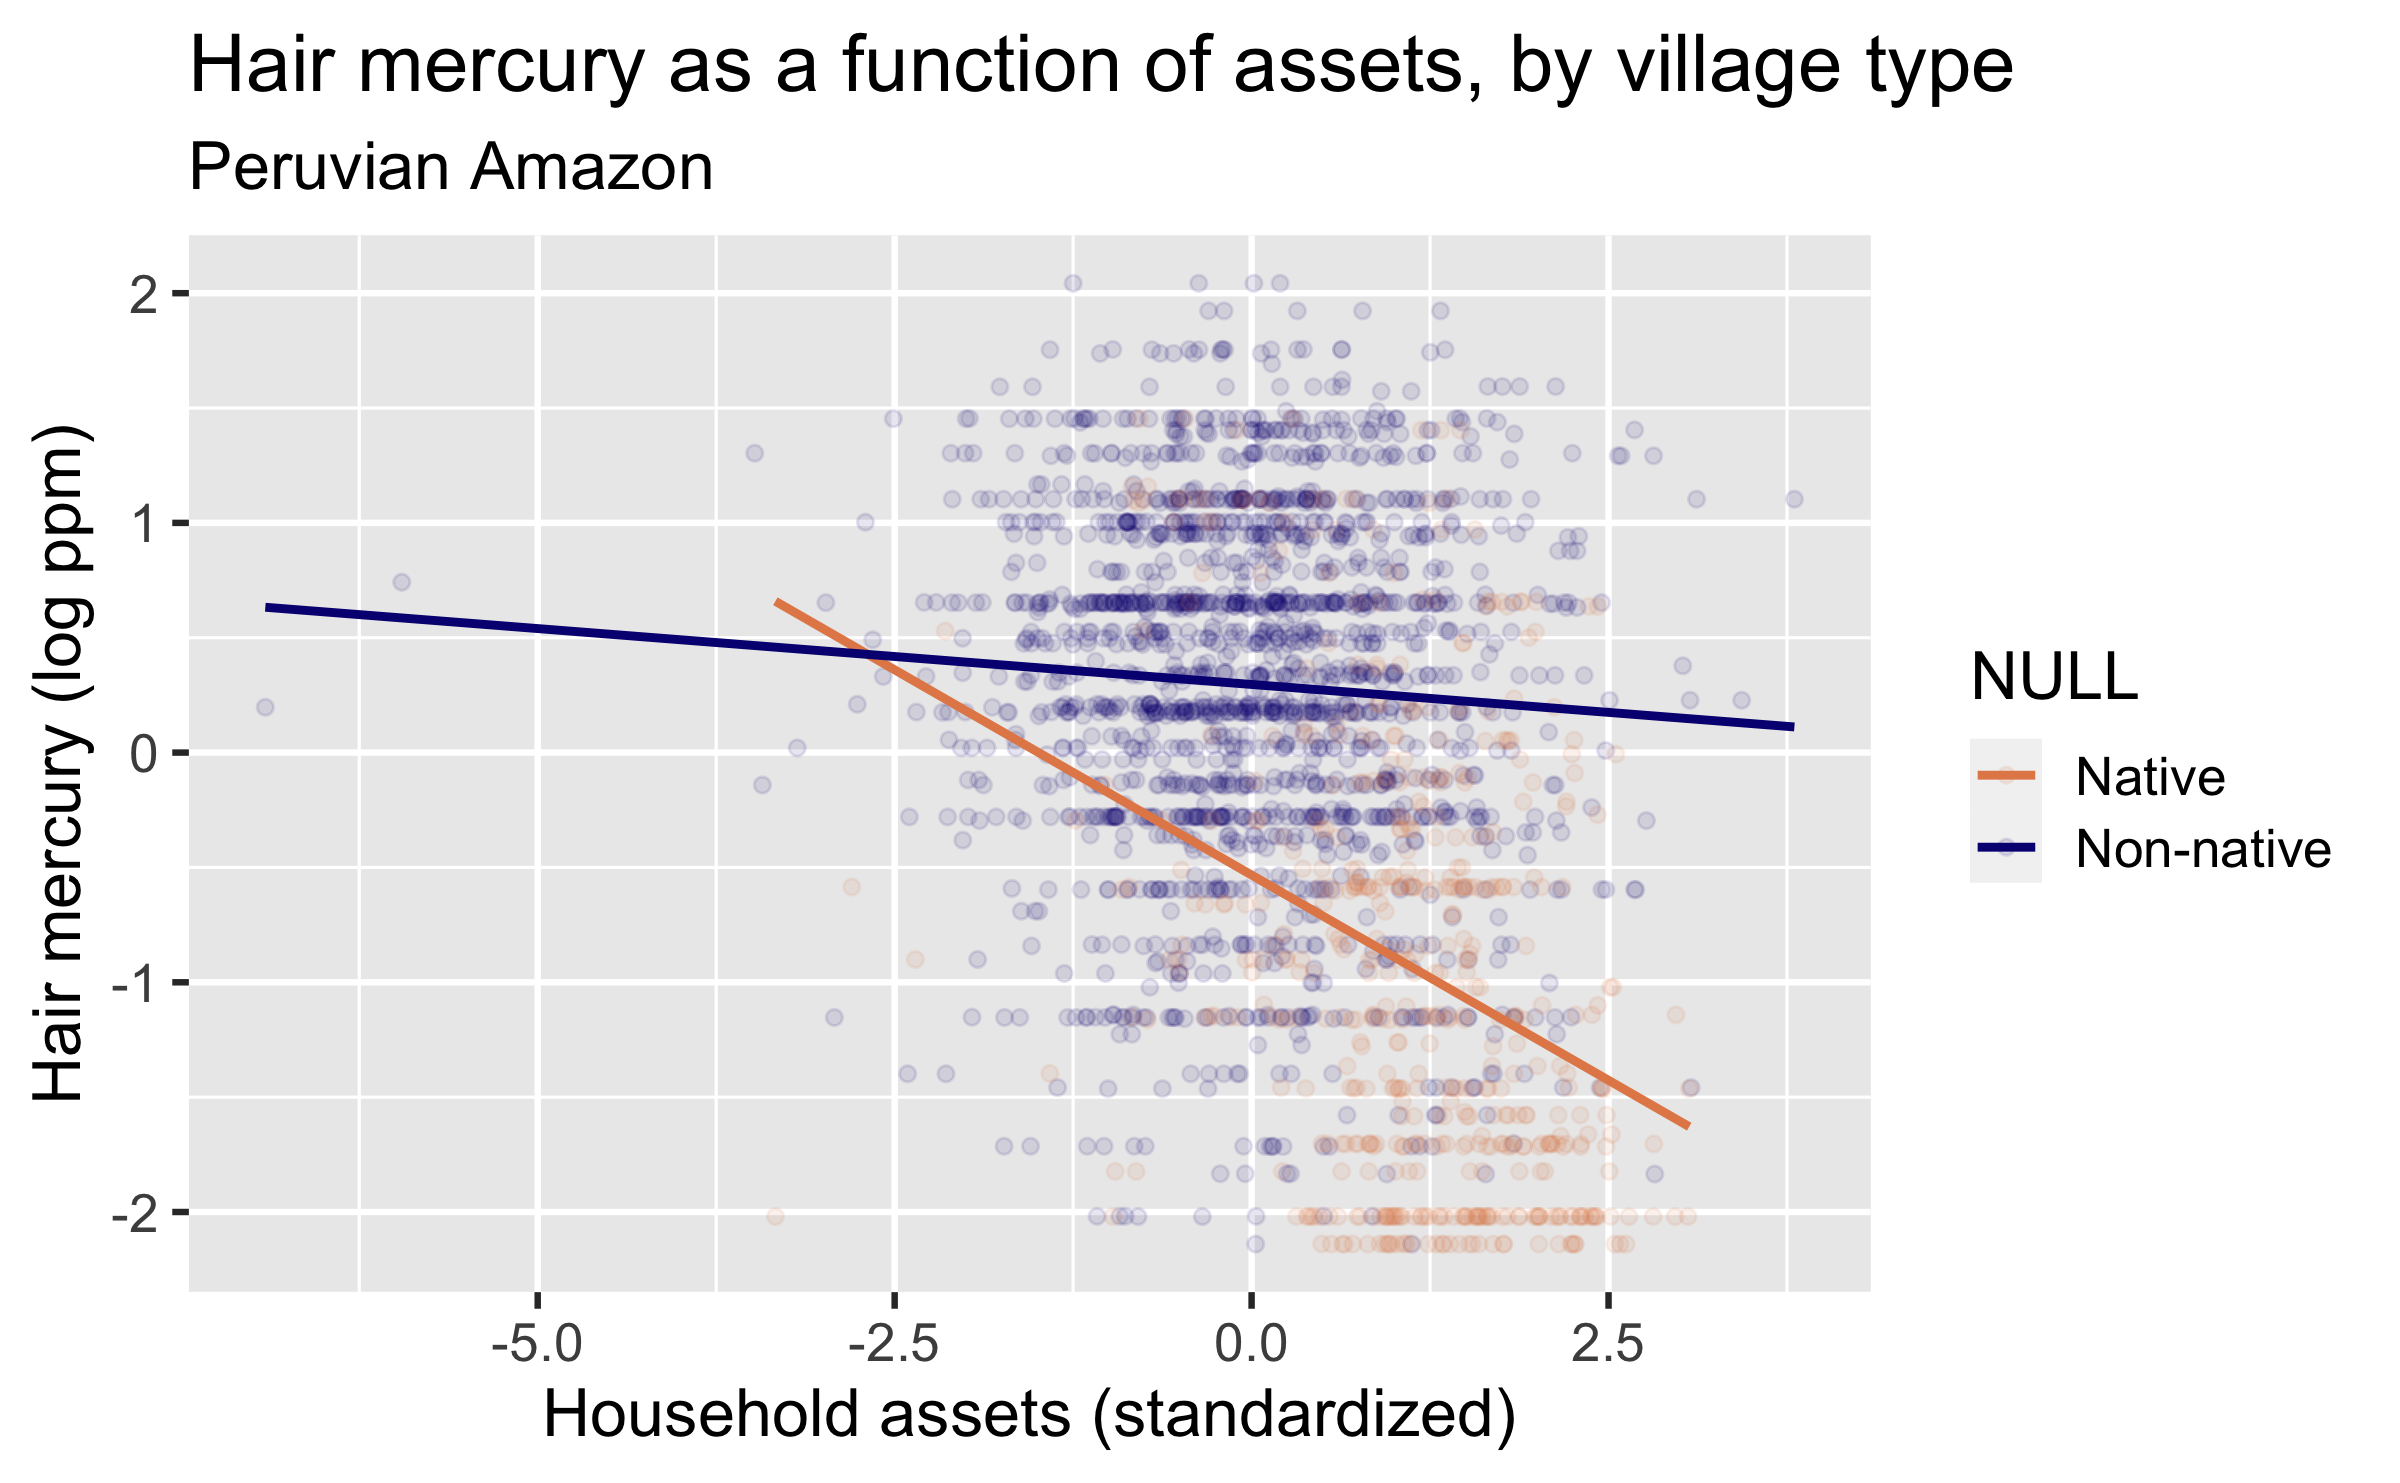
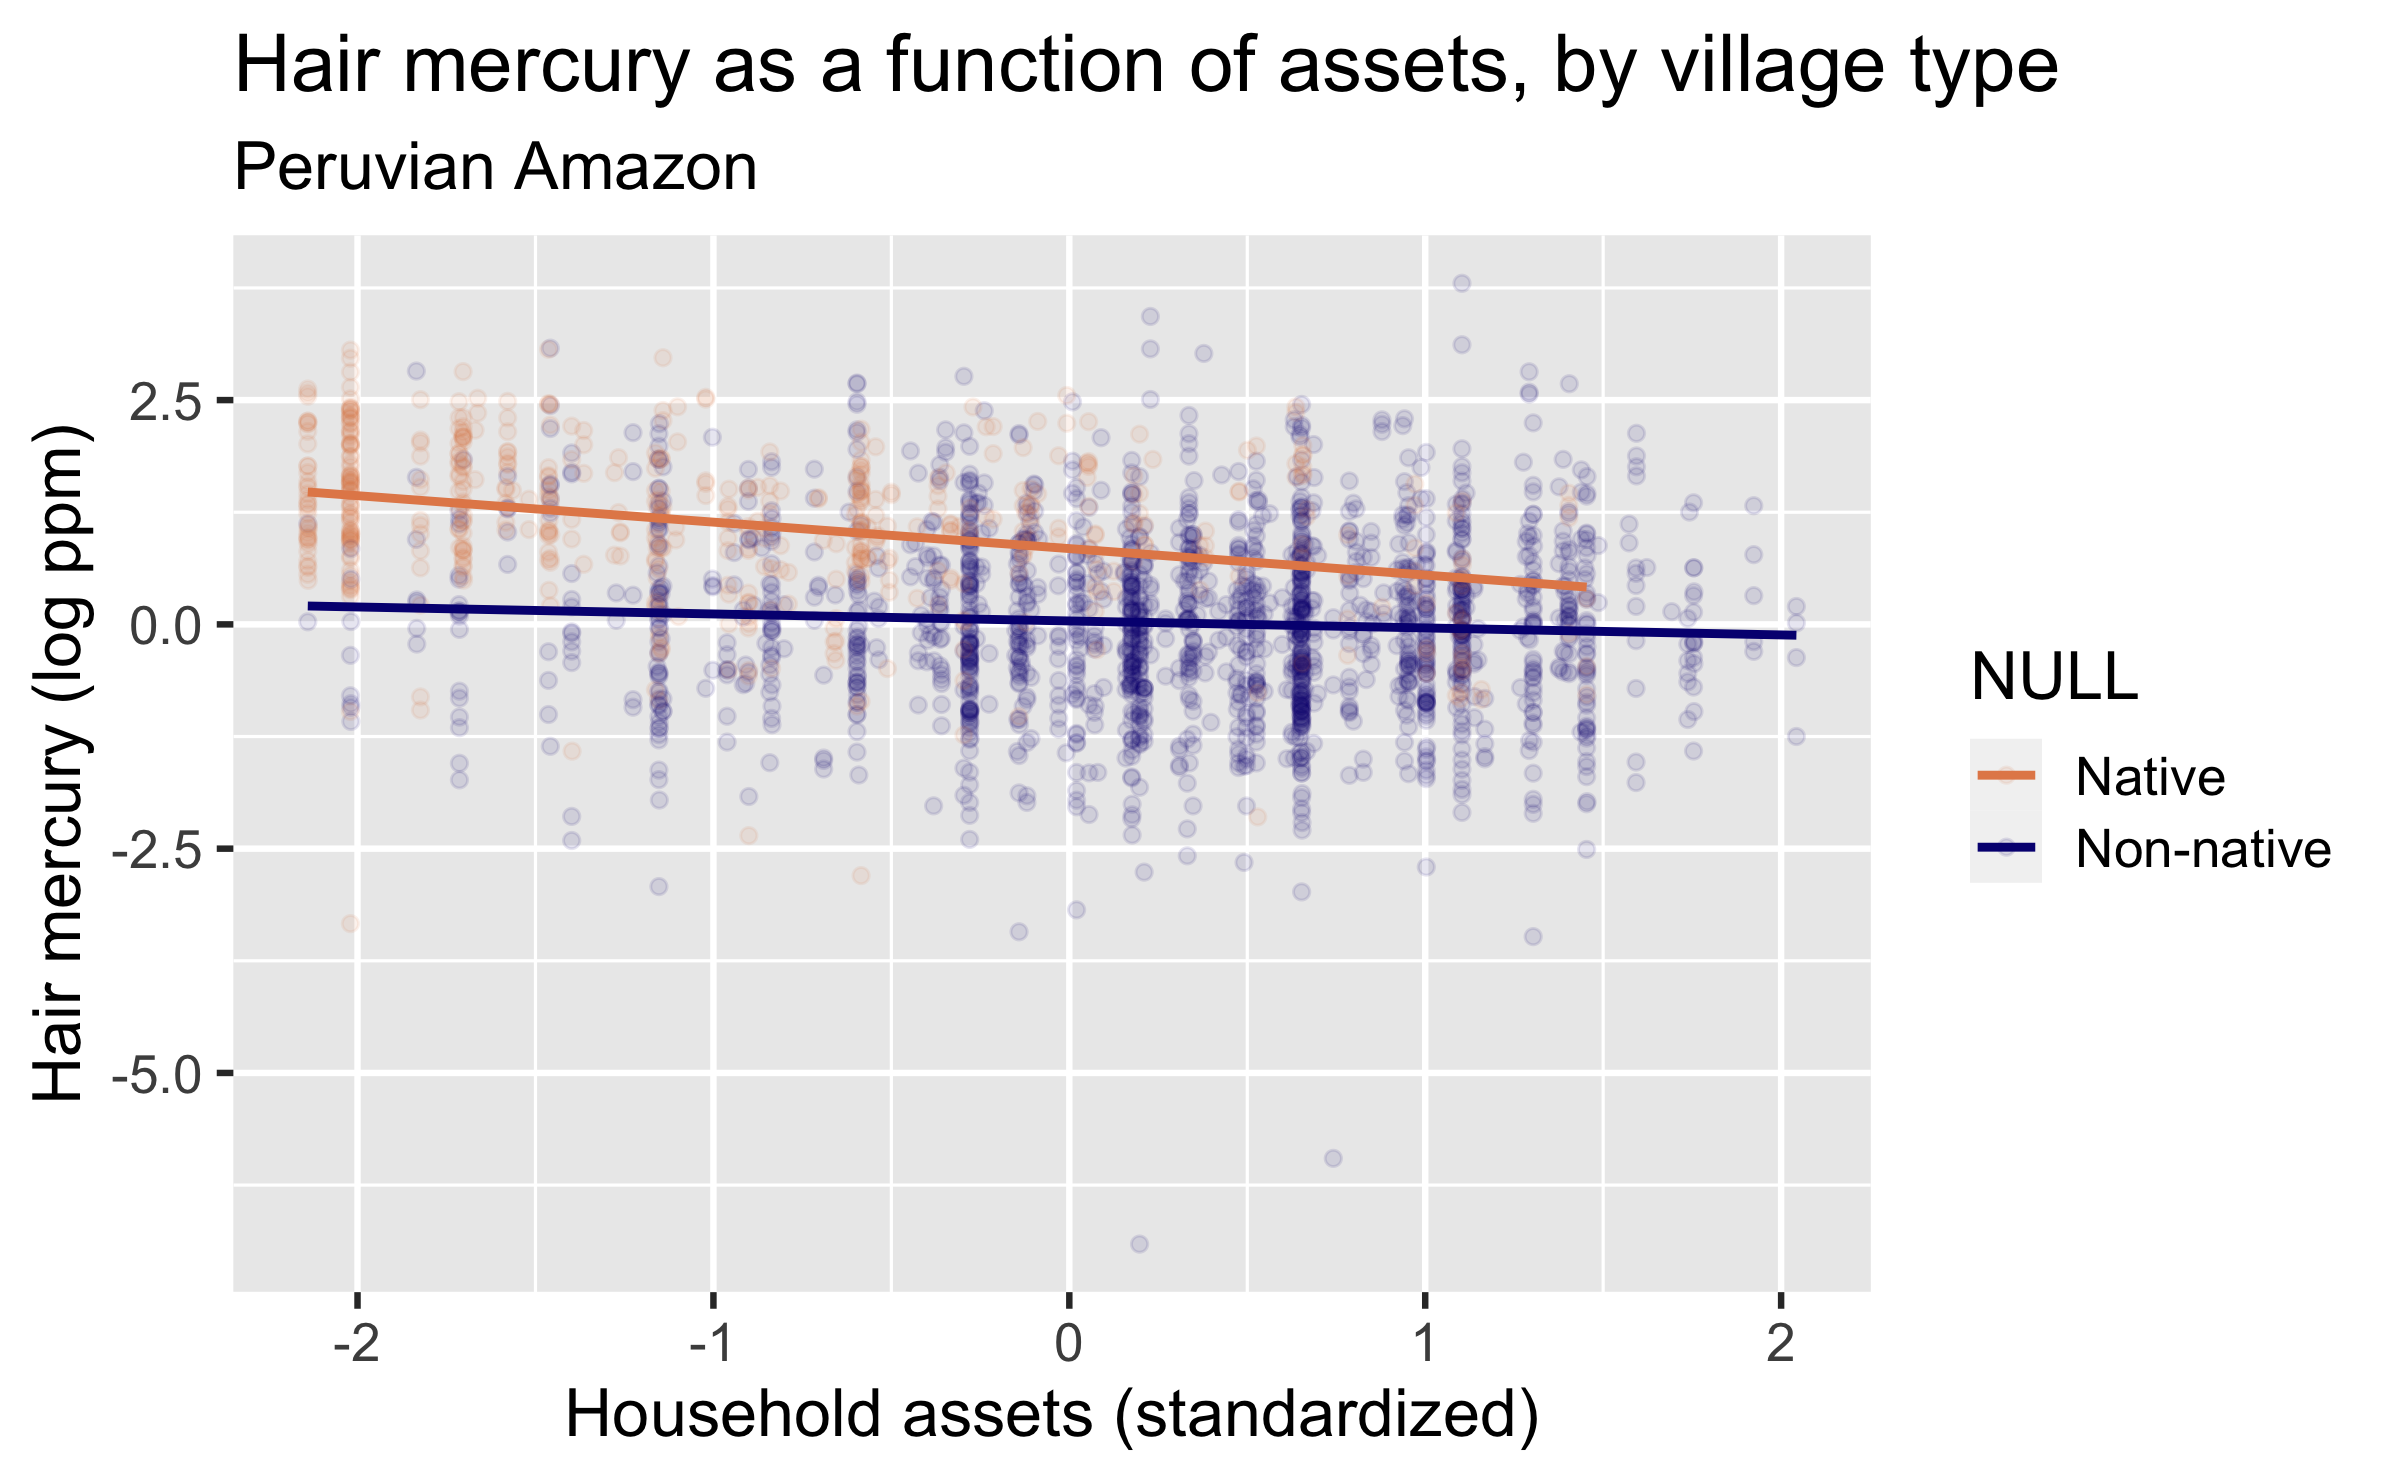
fix x and y axis in two plots lecture 1 week 8

diff --git a/docs/slides/week-08/w8-l01-intro-model.html b/docs/slides/week-08/w8-l01-intro-model.html
@@ -117,7 +117,7 @@ ggplot(data = mercury, aes(x = lhairHg)) +
   labs(x = "Mercury (log ppm)", y = NULL)
 ```
 
-&lt;img src="w8-l01-intro-model_files/figure-html/xform-1.png" width="70%" style="display: block; margin: auto;" /&gt;
+&lt;img src="w8-l01-intro-model_files/figure-html/xform-1.png" width="50%" style="display: block; margin: auto;" /&gt;
 
 Because the models we will discuss to start prefer data that are approximately normally distributed, we will work with the log of hair mercury concentrations.
 
@@ -325,7 +325,7 @@ How, if at all, does the relationship between hair mercury and household assets 
 .panel[.panel-name[Code]
 
 ```r
-ggplot(data = mercury, aes(x = lhairHg, y = assets_sc, color = native_cat)) +
+ggplot(data = mercury, aes(x = assets_sc, y = lhairHg, color = native_cat)) +
   geom_point(alpha = 0.1) +
   geom_smooth(method = "lm", se = FALSE) +
   labs(
@@ -353,7 +353,7 @@ The prior lines were nice in that they did not extrapolate beyond the range of o
 .panel[.panel-name[Code]
 
 ```r
-ggplot(data = mercury, aes(x = lhairHg, y = assets_sc, color = native_cat)) +
+ggplot(data = mercury, aes(x = assets_sc, y = lhairHg, color = native_cat)) +
   geom_point(alpha = 0.1) +
   geom_smooth(method = "lm",
               se = FALSE,

diff --git a/static/slides/week-08/w8-l01-intro-model.html b/static/slides/week-08/w8-l01-intro-model.html
@@ -117,7 +117,7 @@ ggplot(data = mercury, aes(x = lhairHg)) +
   labs(x = "Mercury (log ppm)", y = NULL)
 ```
 
-&lt;img src="w8-l01-intro-model_files/figure-html/xform-1.png" width="70%" style="display: block; margin: auto;" /&gt;
+&lt;img src="w8-l01-intro-model_files/figure-html/xform-1.png" width="50%" style="display: block; margin: auto;" /&gt;
 
 Because the models we will discuss to start prefer data that are approximately normally distributed, we will work with the log of hair mercury concentrations.
 
@@ -325,7 +325,7 @@ How, if at all, does the relationship between hair mercury and household assets 
 .panel[.panel-name[Code]
 
 ```r
-ggplot(data = mercury, aes(x = lhairHg, y = assets_sc, color = native_cat)) +
+ggplot(data = mercury, aes(x = assets_sc, y = lhairHg, color = native_cat)) +
   geom_point(alpha = 0.1) +
   geom_smooth(method = "lm", se = FALSE) +
   labs(
@@ -353,7 +353,7 @@ The prior lines were nice in that they did not extrapolate beyond the range of o
 .panel[.panel-name[Code]
 
 ```r
-ggplot(data = mercury, aes(x = lhairHg, y = assets_sc, color = native_cat)) +
+ggplot(data = mercury, aes(x = assets_sc, y = lhairHg, color = native_cat)) +
   geom_point(alpha = 0.1) +
   geom_smooth(method = "lm",
               se = FALSE,
